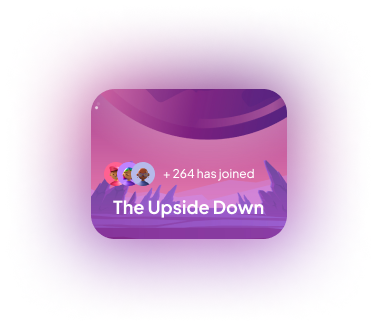
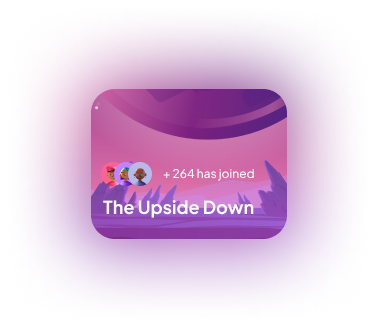
working on map

Changed region(s): [[0.2626, 0.6116, 0.7003, 0.6728], [0.2626, 0.4893, 0.4085, 0.581]]

diff --git a/src/container/World.jsx b/src/container/World.jsx
@@ -39,14 +39,13 @@ const World = () => (
           <img src="/people-03.png" alt="people" className="w-full h-full" />
         </div>
 
-        <div className="absolute top-1/2 left-[45%] w-[196px] h-[150px] p-[6px] rounded-full bg-[#5d6680]">
+        <div className="absolute top-1/4 left-[15%] w-[390px] card h-[320px] p-[6px] rounded-full">
           <img src="/card-01.png" alt="people" className="w-full h-full" />
         </div>
 
-        <div className="absolute top-1/2 left-[45%] w-[70px] h-[70px] p-[6px] rounded-full bg-[#5d6680]">
-          <img src="/people-03.png" alt="people" className="w-full h-full" />
+        <div className="absolute card top-1/8 left-[55%] w-[453px] h-[368px] p-[6px] rounded-full">
+          <img src="/card-02.png" alt="people" className="w-full h-full" />
         </div>
-        
       </motion.div>
     </motion.div>
   </section>

diff --git a/src/index.css b/src/index.css
@@ -105,3 +105,9 @@
   background: #65c4fa;
   filter: blur(150px);
 }
+
+@media screen and (max-width: 660px) {
+  .card {
+    display: none;
+  }
+}
